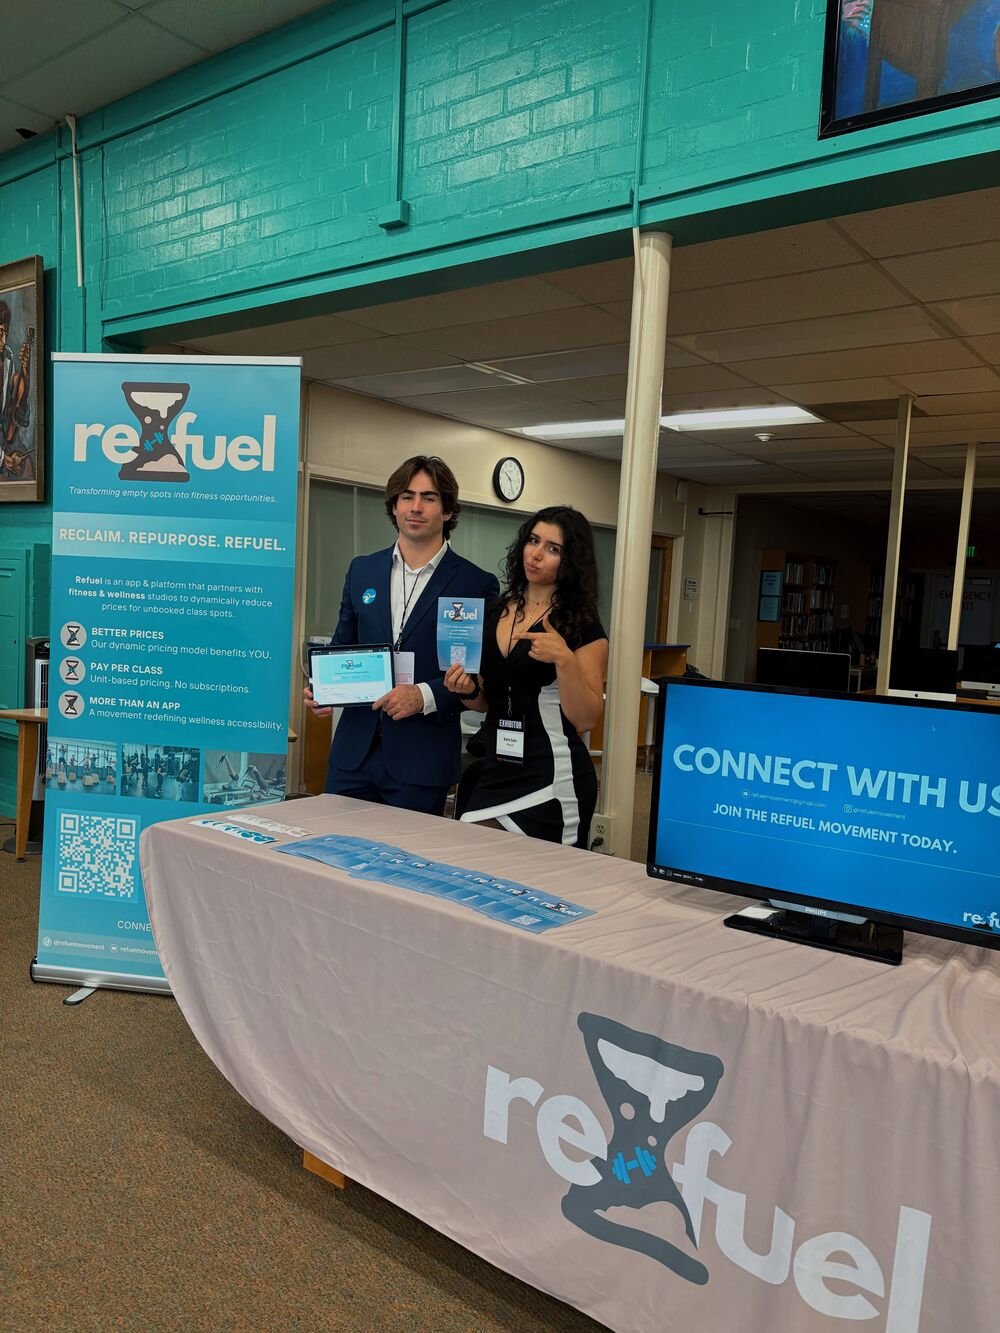
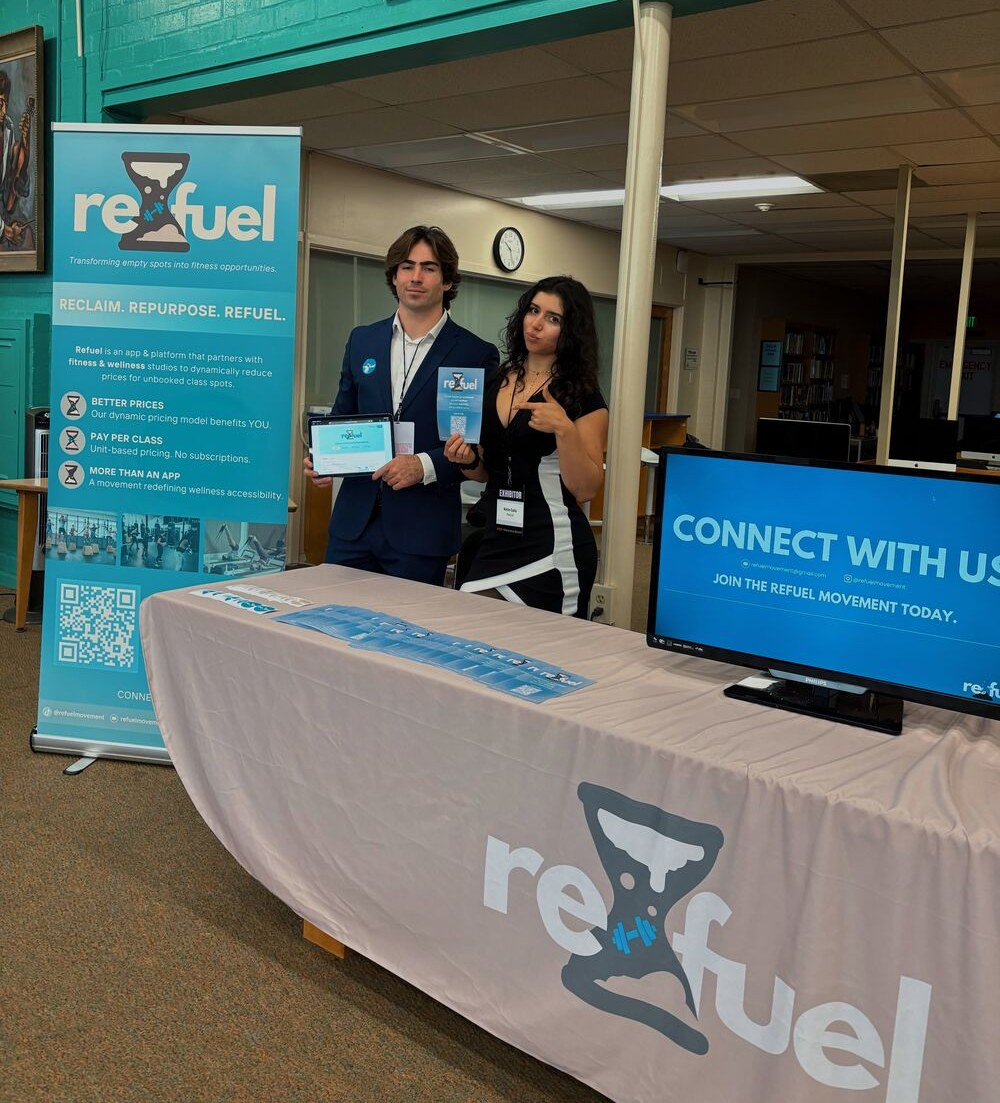
Reframe Refuel photo
Claude-Session: https://claude.ai/code/session_01DXrZFA3J53Z5G2s7jiAjuS

diff --git a/index.html b/index.html
@@ -20,7 +20,7 @@
 <link rel="icon" href="favicon.svg" type="image/svg+xml">
 <link rel="preload" href="fonts/fraunces-latin-full-normal.woff2" as="font" type="font/woff2" crossorigin>
 <link rel="preload" href="fonts/hanken-grotesk-latin-wght-normal.woff2" as="font" type="font/woff2" crossorigin>
-<link rel="stylesheet" href="styles.css?v=5">
+<link rel="stylesheet" href="styles.css?v=6">
 </head>
 <body>
 <a class="skip" href="#main">Skip to content</a>
@@ -153,7 +153,7 @@
       </header>
       <div class="board">
         <article class="tile tile-wide">
-          <figure class="t-photo"><img src="assets/refuel-booth.jpg" alt="Chandni&#8217;s Refuel team at their exhibitor booth with the Refuel banner and table" loading="lazy" decoding="async"></figure>
+          <figure class="t-photo"><img src="assets/refuel-booth.jpg?v=3" alt="Chandni&#8217;s Refuel team at their exhibitor booth with the Refuel banner and table" loading="lazy" decoding="async"></figure>
           <span class="t-tag">Movement</span>
           <p class="t-hook">Refuel</p>
           <p class="t-cap">An app and platform that turns empty studio spots into fitness opportunities by dynamically pricing unbooked class spaces. Launched with Beyond Fitness LA and Lagree by Jenne.</p>

diff --git a/styles.css b/styles.css
@@ -244,7 +244,7 @@ a { color: inherit; text-underline-offset: 0.25em; text-decoration-thickness: 1p
 
 .t-photo img[src*="refuel-logo"] { object-fit: contain; }
 
-.t-photo img[src*="refuel-booth"] { object-position: 35% 45%; }
+.t-photo img[src*="refuel-booth"] { object-position: 35% 35%; }
 .t-photo img[src*="ucla-royce"] { object-position: 45% 50%; }
 .t-photo:has(img[src*="refuel-logo"]) { position: absolute; }
 .t-photo img[src*="refuel-logo"] { position: absolute; inset: 0; width: 100%; height: 100%; }
